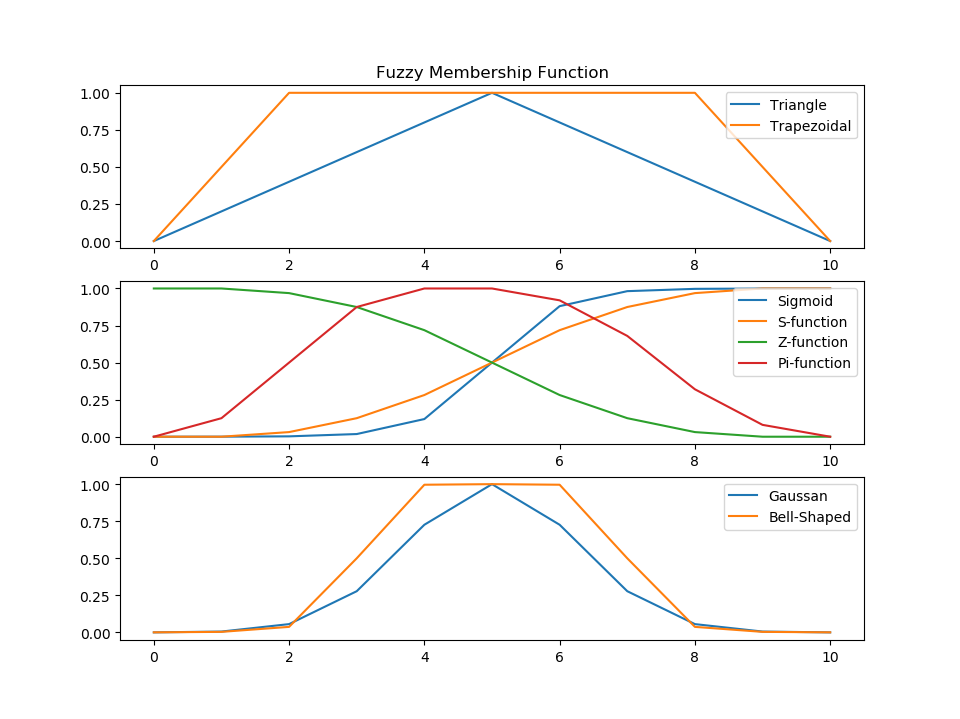
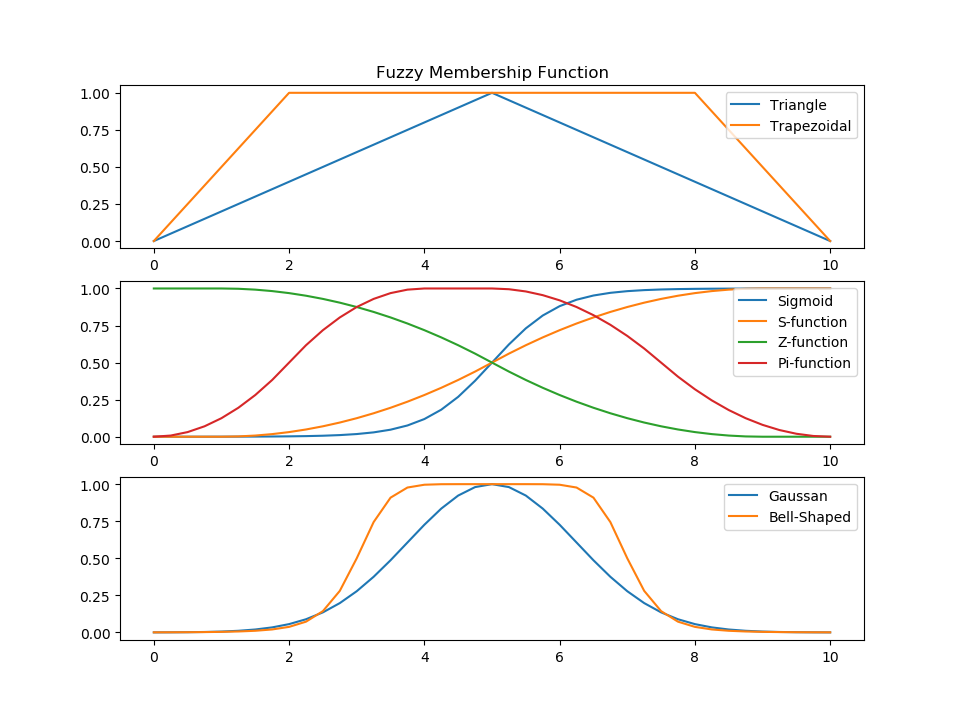
more sample points.

diff --git a/1-membership-function.py b/1-membership-function.py
@@ -3,7 +3,11 @@ import skfuzzy as fuzz
 from matplotlib import pyplot as plt
 
 # [0, 10]
-x = np.arange(11)
+start = 0
+stop = 10 + 0.001
+step = 0.25
+x = np.arange(start, stop, step)
+print(x)
 
 # Triangular membership function
 trimf = fuzz.trimf(x, [0, 5, 10])
